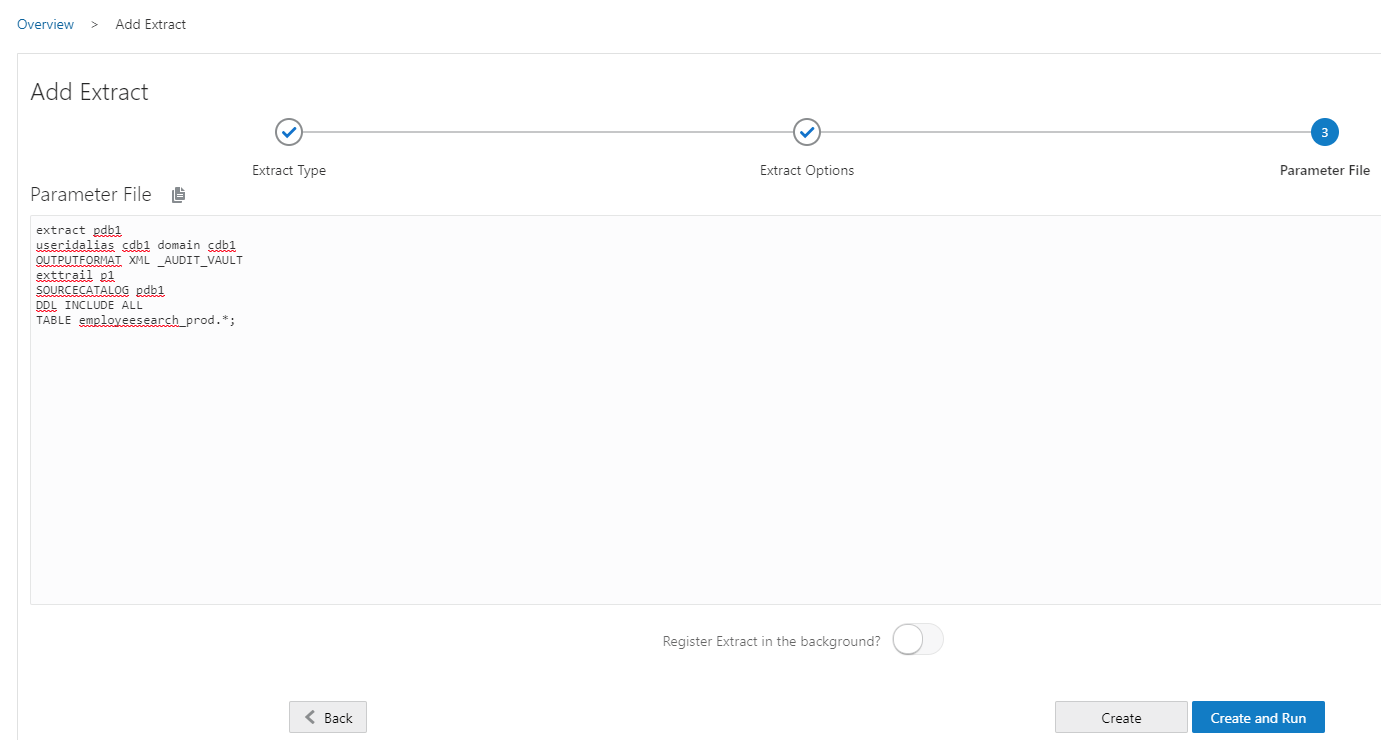
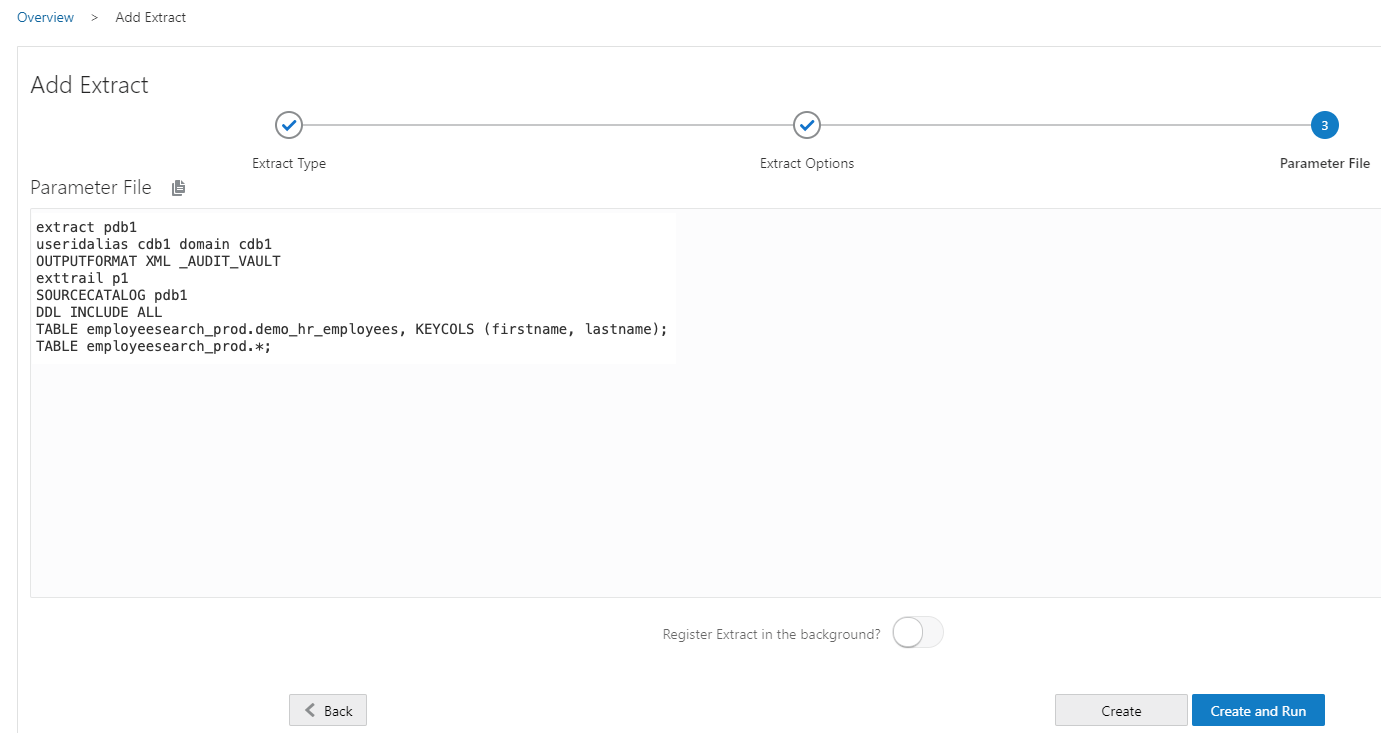
dbseclab_v5.3

diff --git a/database/advanced/avdf/avdf.md b/database/advanced/avdf/avdf.md
@@ -9,7 +9,7 @@ This workshop introduces the various features and functionality of Oracle Audit 
 
 ### Video Preview
 
-Watch a preview of "*LiveLabs - Oracle Audit Vault and Database Firewall (May 2022)*" [](youtube:eLEeOLMAEec)
+Watch a preview of "*LiveLabs - Oracle Audit Vault and Database Firewall*" [](youtube:eLEeOLMAEec)
 
 ### Objectives
 - Connect Audit Vault Server to an Oracle DB
@@ -640,6 +640,7 @@ The first thing we need to do is to set up the database to be ready for Golden G
         exttrail p1
         SOURCECATALOG pdb1
         DDL INCLUDE ALL
+        TABLE employeesearch_prod.demo_hr_employees, KEYCOLS (firstname, lastname);
         TABLE employeesearch_prod.*;
         </copy>
         ````
